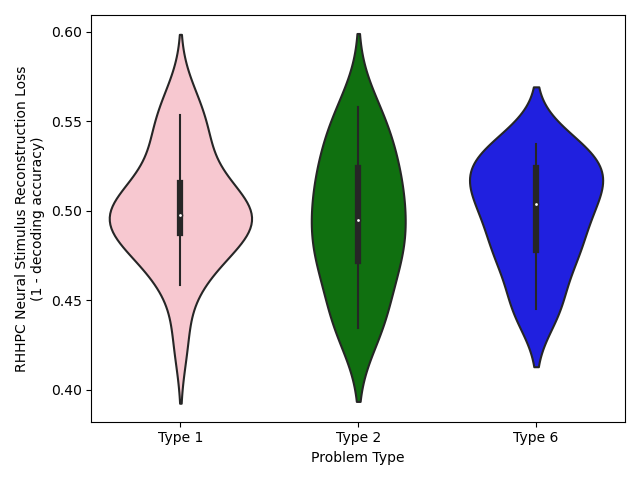
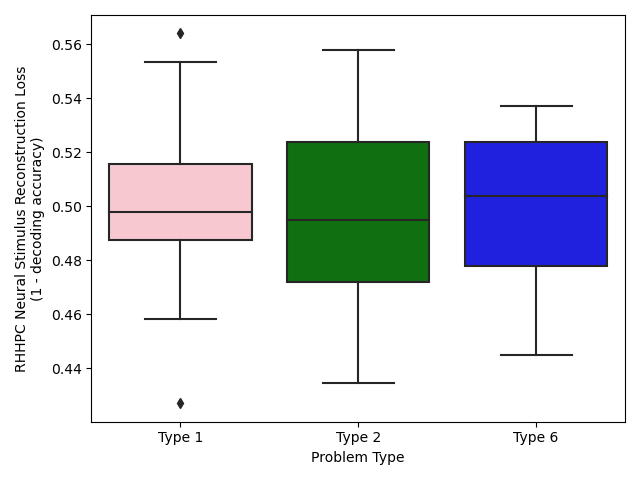
change to boxplot

diff --git a/decoding.py b/decoding.py
@@ -267,7 +267,7 @@ def visualize_decoding_error(decoding_error_collector, num_runs, roi):
         y.extend(per_run_metrics)
     
     palette = {'Type 1': 'pink', 'Type 2': 'green', 'Type 6': 'blue'}
-    ax = sns.violinplot(x=x, y=y, palette=palette)
+    ax = sns.boxplot(x=x, y=y, palette=palette)
     ax.set_xlabel('Problem Type')
     ax.set_ylabel(f'{roi} Neural Stimulus Reconstruction Loss\n(1 - decoding accuracy)')
     plt.tight_layout()
@@ -575,7 +575,7 @@ def visualize_decoding_error_overtime(decoding_error_collector, num_runs, roi):
     elif num_runs == 4:
         palette = {'run 1': 'red', 'run 2': 'pink', 'run 3': 'green', 'run 4': 'blue'}
         
-    ax = sns.violinplot(x=x, y=y, hue=hue, palette=palette)
+    ax = sns.boxplot(x=x, y=y, hue=hue, palette=palette)
     ax.set_xlabel('Learning Blocks')
     ax.set_ylabel(f'{roi} Neural Stimulus Reconstruction Loss\n(1 - decoding accuracy)')
     plt.tight_layout()
@@ -601,18 +601,18 @@ if __name__ == '__main__':
         conditions = [f'{i:04d}' for i in range(1, num_conditions, 2)]
         num_conditions = len(conditions)
 
-    # decoding_error_execute(
-    #     rois=rois, conditions=conditions, 
-    #     num_repetitions_per_run=num_repetitions_per_run,
-    #     num_runs=len(runs),
-    #     num_processes=72
-    # )
-    
-    paired_ttest_between_rois(
-        roi1='LOC',
-        roi2='LHHPC',
-        num_runs=len(runs)
+    decoding_error_execute(
+        rois=rois, conditions=conditions, 
+        num_repetitions_per_run=num_repetitions_per_run,
+        num_runs=len(runs),
+        num_processes=72
     )
+    
+    # paired_ttest_between_rois(
+    #     roi1='LOC',
+    #     roi2='LHHPC',
+    #     num_runs=len(runs)
+    # )
     
     # decoding_error_overtime_execute(
     #     rois=rois, conditions=conditions, 
